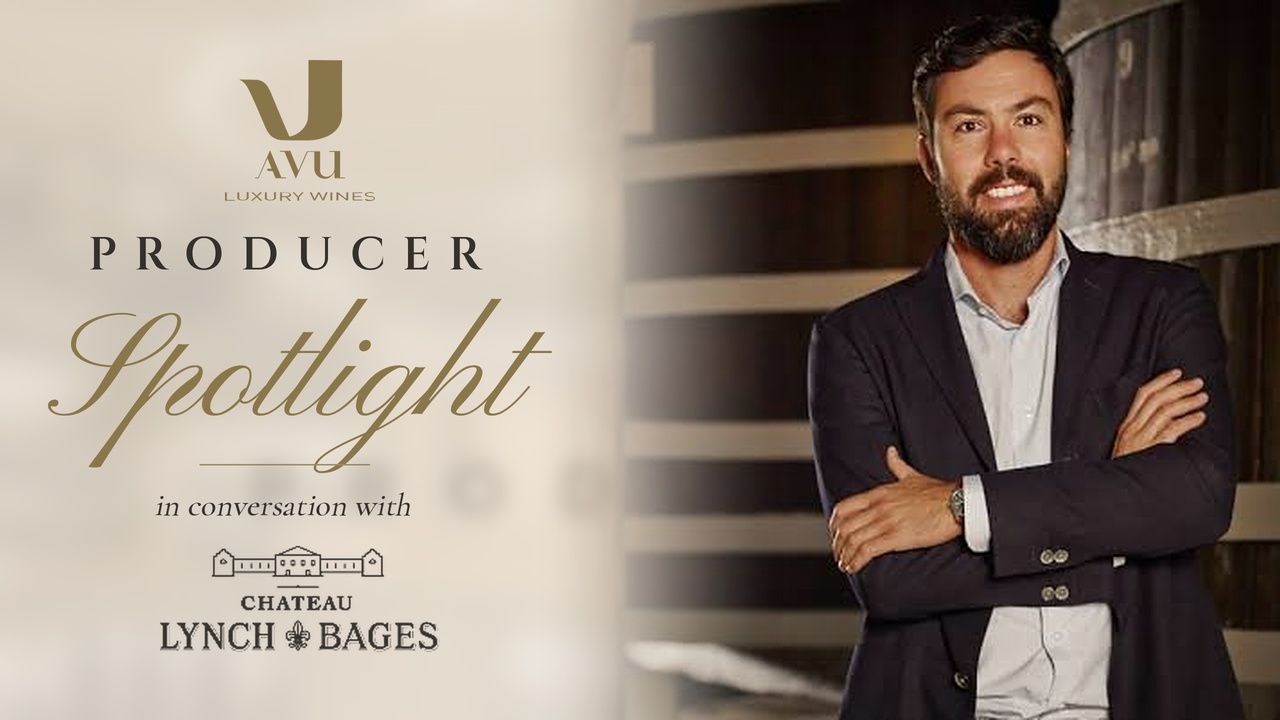
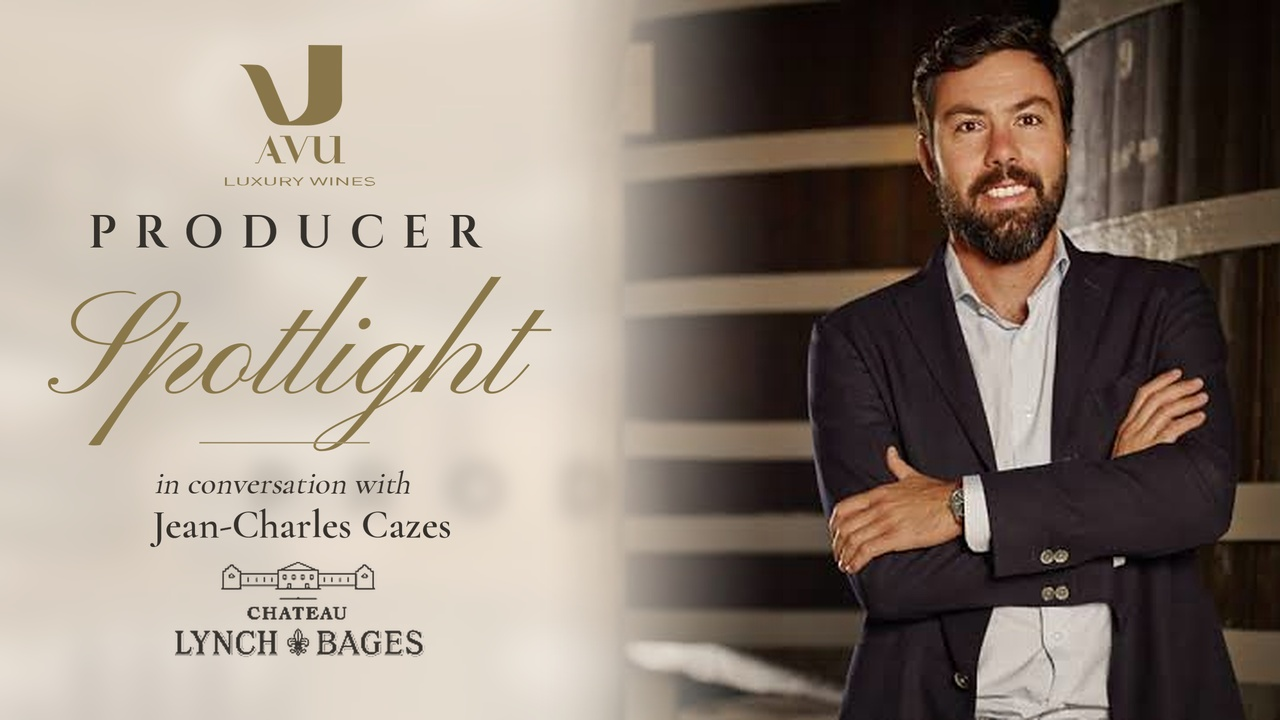
Add producer name layer to Lynch-Bages thumbnail
Claude-Session: https://claude.ai/code/session_014wJhfs9ZUugL8YTQN16Q1m

Changed region(s): [[0.0312, 0.0917, 0.4375, 0.9167], [0.2188, 0.0611, 0.2812, 0.0917]]

diff --git a/thumbnails/lynch-bages/name.py b/thumbnails/lynch-bages/name.py
@@ -1,0 +1,19 @@
+import sys
+from pathlib import Path
+from PIL import Image, ImageDraw, ImageFont
+S = Path(sys.argv[1]); F = S/"fonts"; OUT = S/"out"
+DARK=(52,48,44)
+f = ImageFont.truetype(str(F/"CormorantGaramond%5Bwght%5D.ttf"), 80); f.set_variation_by_axes([600])
+im=Image.new("RGBA",(1200,200),(0,0,0,0))
+ImageDraw.Draw(im).text((600,100),"Jean-Charles Cazes",font=f,fill=DARK+(255,),anchor="mm")
+im=im.crop(im.getbbox()); im.save(OUT/"layer_name.png"); print(im.size)
+# preview with the new layout (1x coords)
+L={"bg":("layer_background.png",0,0,1280,720),"avu":("layer_avu_logo.png",225,45,150,141),
+   "title":("layer_title.png",48,214,504,280),"name":("layer_name.png",None,508,None,None),
+   "lb":("layer_lynch_bages_logo.png",175,562,250,95)}
+comp=Image.new("RGBA",(2560,1440))
+for k,(fn,x,y,w,h) in L.items():
+    l=Image.open(OUT/fn).convert("RGBA")
+    if w is None: w,h=l.width//2,l.height//2; x=300-w//2; print("name@1x",x,y,w,h)
+    comp.alpha_composite(l.resize((w*2,h*2),Image.LANCZOS),(x*2,y*2))
+comp.convert("RGB").resize((1280,720),Image.LANCZOS).save(OUT/"thumbnail_with_name.jpg",quality=95)
